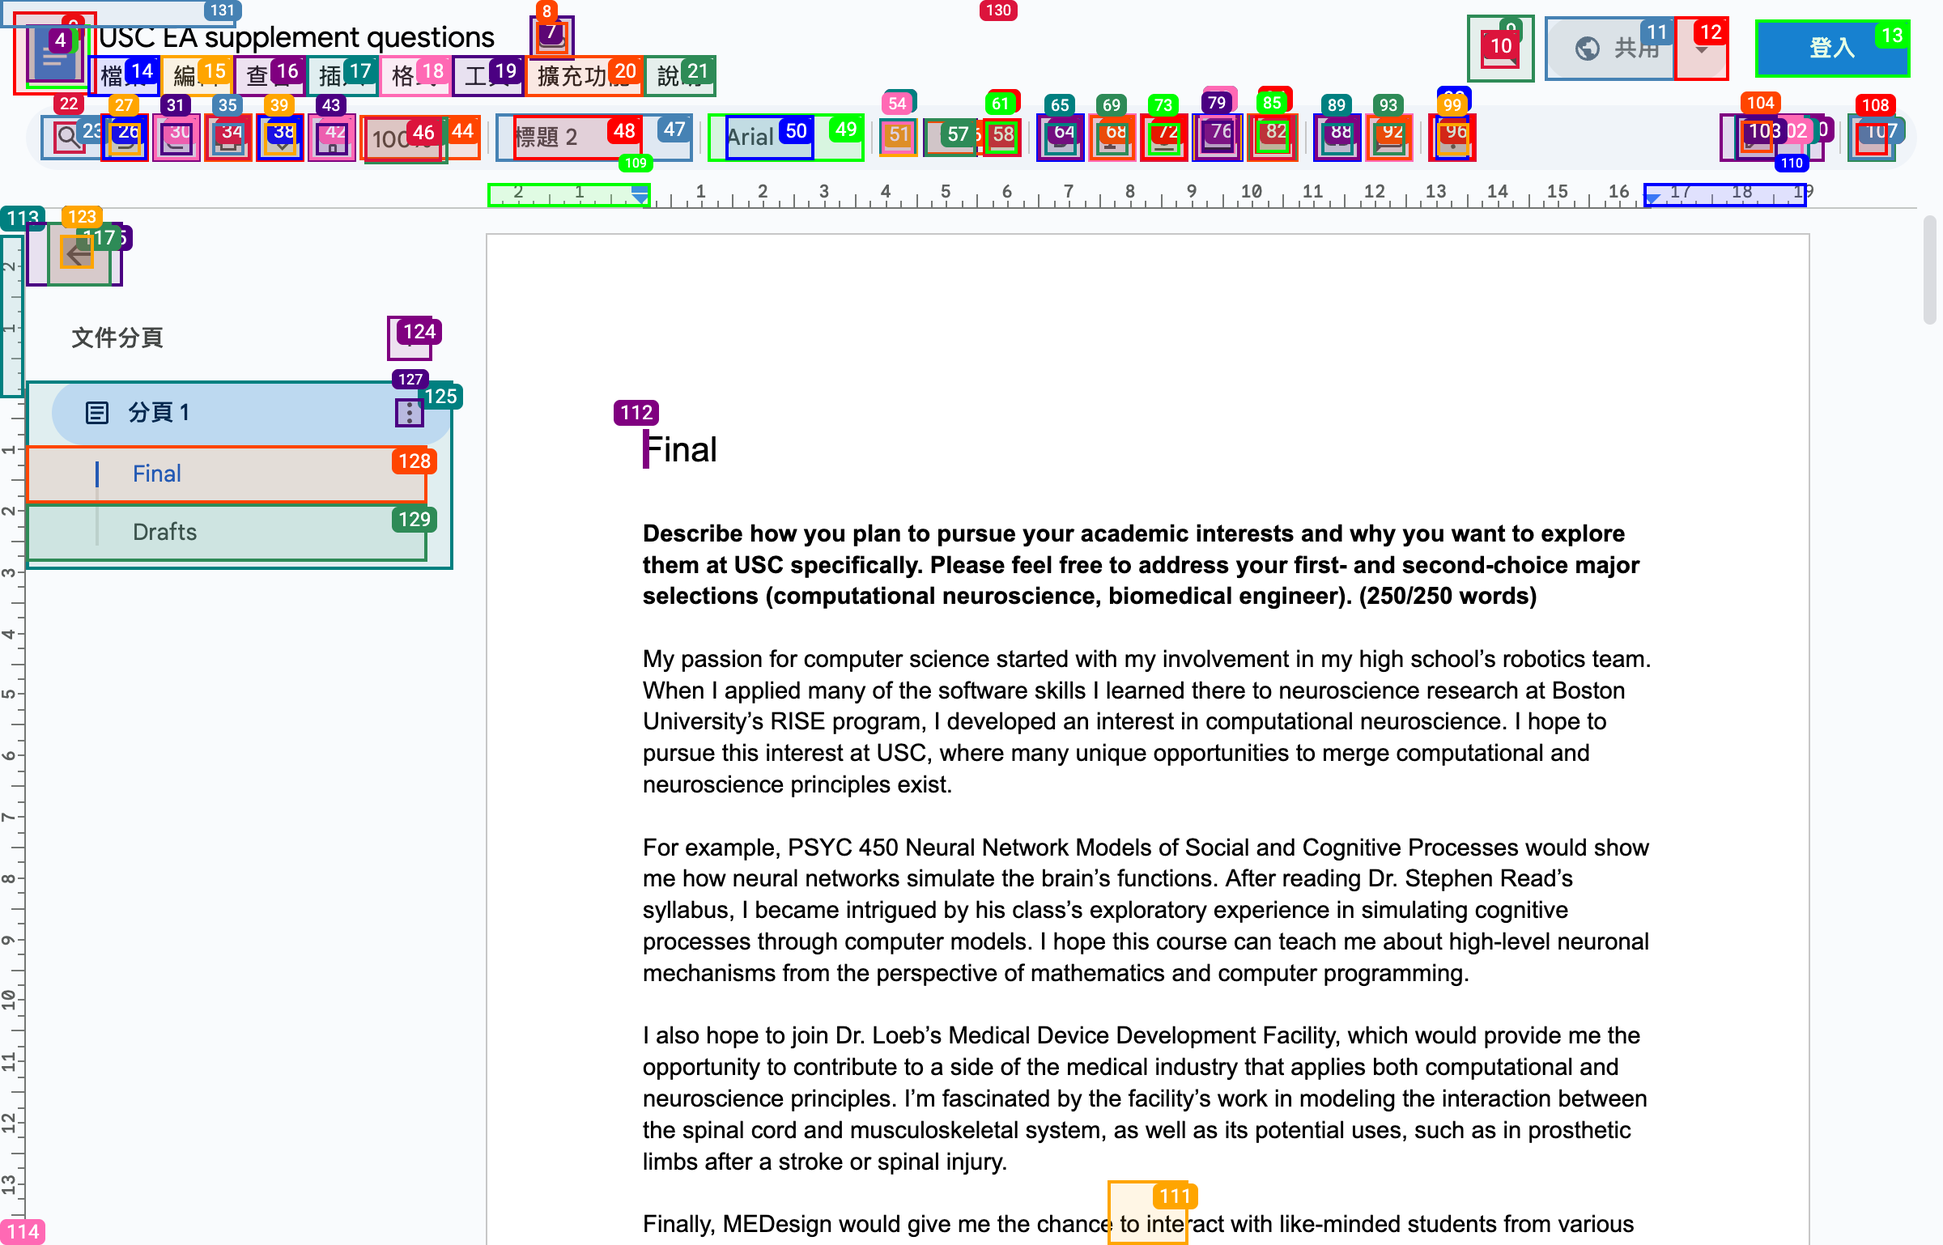
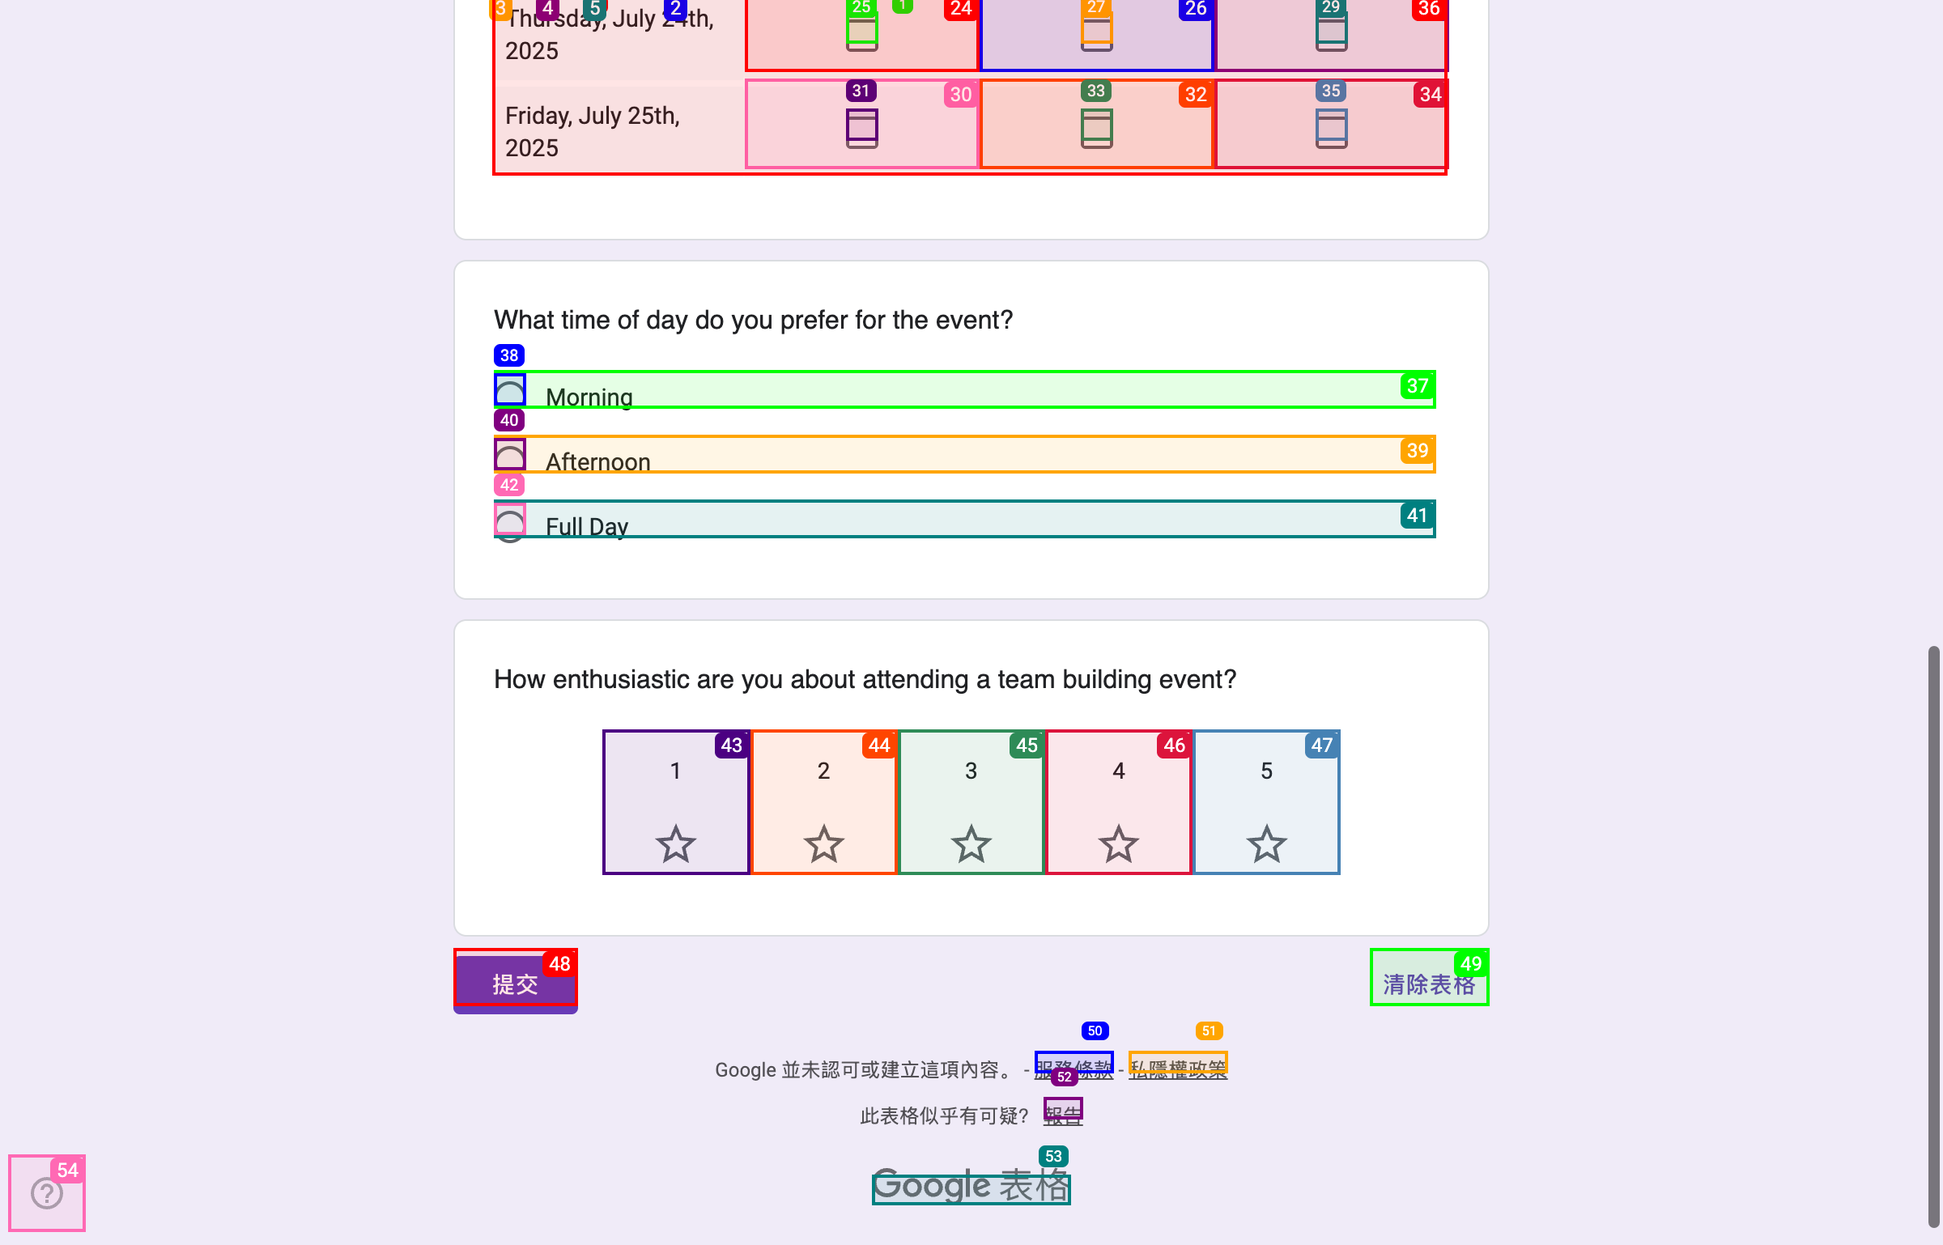
work on fixing bounding box overlapping in google doc

diff --git a/actions/new/dom/buildDomTree.js b/actions/new/dom/buildDomTree.js
@@ -25,8 +25,8 @@ import { createHighlightUtils } from './highlight.js';
  *
  * @param {Object} args - Configuration options for the DOM tree builder.
  * @param {boolean} args.doHighlightElements - Whether to visually highlight interactive elements.
- * @param {number} args.viewportExpansion - Pixels to expand the viewport bounds for visibility checks. -1 to expand to full page.
  * @param {boolean} args.debugMode - Enables detailed performance metrics and logging.
+ * @param {number} args.overlapThreshold - Threshold for area overlap detection (0.7 = 70%)
  *
  * @returns {Object} An object containing the root node ID, a map of all node data, and (if debugMode) performance metrics.
  *
@@ -36,10 +36,10 @@ import { createHighlightUtils } from './highlight.js';
  */
 export default function buildDomTree(args = {
     doHighlightElements: true,
-    viewportExpansion: -1,
     debugMode: true,
+    overlapThreshold: 0.7, // Threshold for area overlap detection (0.7 = 70%)
 }) {
-    const { doHighlightElements, viewportExpansion, debugMode } = args;
+    const { doHighlightElements, debugMode, overlapThreshold } = args;
 
     // --- Instantiate helpers with shared state ---
     const { PERF_METRICS, measureDomOperation, postProcessMetrics, pushTiming, popTiming } = createMetrics(debugMode);
@@ -53,21 +53,57 @@ export default function buildDomTree(args = {
     const ID = { current: 0 };
 
     // --- Core Logic ---
-    function handleHighlighting(nodeData, node, parentIframe, isParentHighlighted) {
-        if (!nodeData.isInteractive) return false;
-        // only highlight if parent not highlighted (prevent overlaps) or if its distinct
-        if (!isParentHighlighted || domUtils.isElementDistinctInteraction(node)) {
-            // only highlight if in viewport (or if its set to -1)
+    /**
+     * Handles the highlighting logic for interactive elements, including area overlap detection.
+     * 
+     * @param {Object} nodeData - The data object for the current node.
+     * @param {Element} node - The DOM element to potentially highlight.
+     * @param {Element|null} parentIframe - The parent iframe element if inside an iframe.
+     * @param {boolean} highlightedAncestor - If the element has a highlighted ancestor, null if no ancestor.
+     * @returns {Element|null} The element if it was highlighted, null otherwise.
+     */
+    function handleHighlighting(nodeData, node, parentIframe, highlightedAncestor = null) {
+        if (!nodeData.isInteractive) return highlightedAncestor;
+
+        // only highlight if no highlighted ancestor or if its distinct
+        if (!highlightedAncestor || domUtils.isElementDistinctInteraction(node)) {
+            // Additional safeguard: if parent is highlighted, require stronger evidence of distinctness
+            if (highlightedAncestor) {
+                const tagName = node.tagName.toLowerCase();
+                const isWrapperTag = ['div', 'span', 'section', 'article'].includes(tagName);
+
+                // For wrapper tags, require explicit interactive properties
+                if (isWrapperTag) {
+                    const hasExplicitInteractivity = node.hasAttribute('onclick') || node.hasAttribute('role') ||
+                        node.hasAttribute('tabindex') || /\b(btn|clickable)\b/i.test(node.className || '');
+                    if (!hasExplicitInteractivity) return highlightedAncestor;
+                }
+
+                // Area overlap check: prevent highlighting if element overlaps significantly with highlighted ancestor
+                const nodeRect = domUtils.getCachedBoundingRect(node);
+                if (nodeRect) {
+                    const parentRect = domUtils.getCachedBoundingRect(highlightedAncestor);
+                    if (parentRect) {
+                        const xOverlap = Math.max(0, Math.min(nodeRect.right, parentRect.right) - Math.max(nodeRect.left, parentRect.left));
+                        const yOverlap = Math.max(0, Math.min(nodeRect.bottom, parentRect.bottom) - Math.max(nodeRect.top, parentRect.top));
+                        const overlapArea = xOverlap * yOverlap;
+                        const overlapRatio = overlapArea / Math.max(nodeRect.width * nodeRect.height, parentRect.width * parentRect.height);
+                        if (overlapRatio > overlapThreshold) {
+                            return highlightedAncestor;
+                        }
+                    }
+                }
+            }
+
             nodeData.highlightIndex = highlightIndex++;
             if (doHighlightElements) {
-                // highlight given node if we aren't focusing on one only
                 const time = highlightElement(node, nodeData.highlightIndex, parentIframe) || 0;
                 if (debugMode) PERF_METRICS.timings.highlightElement += time;
-                // return true if successful highlight -- this is to signal that children should not be highlighted.
-                return true;
+                // return element if successful highlight -- this is to signal that children should not be highlighted.
+                return node;
             }
         }
-        return false;
+        return highlightedAncestor;
     }
 
     /**
@@ -76,7 +112,7 @@ export default function buildDomTree(args = {
      *
      * @param {Node} node - The current DOM node to process.
      * @param {Element|null} [parentIframe=null] - The parent iframe element if inside an iframe, otherwise null.
-     * @param {boolean} [isParentHighlighted=false] - Whether the parent node was highlighted, to avoid redundant highlights.
+     * @param {Element|null} [highlightedAncestor=null] - The parent node that was highlighted, to avoid redundant highlights.
      * @returns {string|null} The unique ID of the processed node in the DOM_HASH_MAP, or null if the node is skipped.
      *
      * @remarks
@@ -84,7 +120,7 @@ export default function buildDomTree(args = {
      * - Handles text nodes, shadow DOM, and content-editable regions.
      * - Applies highlighting logic if enabled.
      */
-    function buildTreeRecursive(node, parentIframe = null, isParentHighlighted = false) {
+    function buildTreeRecursive(node, parentIframe = null, highlightedAncestor = null) {
         if (debugMode) {
             PERF_METRICS.nodeMetrics.totalNodes++;
             PERF_METRICS.calls.buildDomTree++;
@@ -97,7 +133,7 @@ export default function buildDomTree(args = {
         if (node === document.body) {
             const nodeData = { tagName: 'body', attributes: {}, xpath: '/body', children: [] };
             for (const child of node.childNodes) {
-                const domElement = buildTreeRecursive(child, parentIframe, false);
+                const domElement = buildTreeRecursive(child, parentIframe, highlightedAncestor);
                 if (domElement) nodeData.children.push(domElement);
             }
             const id = `${ID.current++}`;
@@ -115,7 +151,7 @@ export default function buildDomTree(args = {
             }
 
             const id = `${ID.current++}`;
-            DOM_HASH_MAP[id] = { type: "TEXT_NODE", text: textContent, isVisible: domUtils.isTextNodeVisible(node, viewportExpansion) };
+            DOM_HASH_MAP[id] = { type: "TEXT_NODE", text: textContent, isVisible: domUtils.isTextNodeVisible(node) };
             if (debugMode) PERF_METRICS.nodeMetrics.processedNodes++;
             return id;
         }
@@ -145,12 +181,12 @@ export default function buildDomTree(args = {
             }
         }
         // populate isVisible, isInteractive attributes of nodeData
-        let nodeWasHighlighted = false;
+        let newHighlightedAncestor = null;
         nodeData.isVisible = domUtils.isElementVisible(node); // this is the only visibility check
         if (nodeData.isVisible) {
             nodeData.isInteractive = domUtils.isInteractiveElement(node);
             // mark element to be highlighted (so that children are not highlighted)
-            nodeWasHighlighted = handleHighlighting(nodeData, node, parentIframe, isParentHighlighted);
+            newHighlightedAncestor = handleHighlighting(nodeData, node, parentIframe, highlightedAncestor);
         }
         // Check for special types of nodes with internal structures, recurse through those
         const tagName = nodeData.tagName;
@@ -160,7 +196,7 @@ export default function buildDomTree(args = {
                 const iframeDoc = node.contentDocument || node.contentWindow?.document;
                 if (iframeDoc) {
                     for (const child of iframeDoc.childNodes) {
-                        const domElement = buildTreeRecursive(child, node, false);
+                        const domElement = buildTreeRecursive(child, node, newHighlightedAncestor);
                         if (domElement) nodeData.children.push(domElement);
                     }
                 }
@@ -168,7 +204,7 @@ export default function buildDomTree(args = {
             // for content editable divs
         } else if (node.isContentEditable) {
             for (const child of node.childNodes) {
-                const domElement = buildTreeRecursive(child, parentIframe, nodeWasHighlighted);
+                const domElement = buildTreeRecursive(child, parentIframe, newHighlightedAncestor);
                 if (domElement) nodeData.children.push(domElement);
             }
 
@@ -176,14 +212,13 @@ export default function buildDomTree(args = {
             // for shadow DOM elements that have internal structure
             nodeData.shadowRoot = true;
             for (const child of node.shadowRoot.childNodes) {
-                const domElement = buildTreeRecursive(child, parentIframe, nodeWasHighlighted);
+                const domElement = buildTreeRecursive(child, parentIframe, newHighlightedAncestor);
                 if (domElement) nodeData.children.push(domElement);
             }
         } else {
             // for all other nodes, recurse through children
             for (const child of node.childNodes) {
-                const passHighlightStatusToChild = nodeWasHighlighted || isParentHighlighted;
-                const domElement = buildTreeRecursive(child, parentIframe, passHighlightStatusToChild);
+                const domElement = buildTreeRecursive(child, parentIframe, newHighlightedAncestor);
                 if (domElement) nodeData.children.push(domElement);
             }
         }
@@ -208,6 +243,7 @@ export default function buildDomTree(args = {
     // --- Execution ---
     domUtils.DOM_CACHE.clearCache();
     if (window._highlightCleanupFunctions) cleanupHighlights();
+
     const wrappedBuildTree = measureDomOperation(buildTreeRecursive, 'buildDomTree');
     PERF_METRICS.calls.buildDomTree--; // remove this extra call to measureDomOperation
     const rootId = wrappedBuildTree(document.body);

diff --git a/actions/new/dom/dom_utils.js b/actions/new/dom/dom_utils.js
@@ -130,28 +130,24 @@ export function createDomUtils(debugMode, PERF_METRICS, measureDomOperation) {
      */
     function isElementVisible(element) {
         const style = getCachedComputedStyle(element);
-        return element.offsetWidth > 0 && element.offsetHeight > 0 && style.visibility !== "hidden" && style.display !== "none";
+        return element.offsetWidth > 0 && element.offsetHeight > 0 &&
+            style.visibility !== "hidden"
+            && style.display !== "none"
+            && parseFloat(style.opacity) > 0
+            && element.getClientRects().length > 0
+
     }
 
     /**
      * Checks if a text node is visible in the viewport.
      */
-    function isTextNodeVisible(textNode, viewportExpansion) {
+    function isTextNodeVisible(textNode) {
         try {
-            if (viewportExpansion === -1) {
-                const parentElement = textNode.parentElement;
-                if (!parentElement) return false;
-                try {
-                    return parentElement.checkVisibility({ checkOpacity: true, checkVisibilityCSS: true });
-                } catch (e) {
-                    const style = window.getComputedStyle(parentElement);
-                    return style.display !== 'none' && style.visibility !== 'hidden' && style.opacity !== '0';
-                }
-            }
-            // access the client rects of the text node.
+            // get client rects if text wraps to multiple lines.
             const range = document.createRange();
             range.selectNodeContents(textNode);
             const rects = range.getClientRects();
+
             if (!rects || rects.length === 0) return false;
             for (const rect of rects) {
                 if (rect.width > 0 && rect.height > 0) {
@@ -161,9 +157,8 @@ export function createDomUtils(debugMode, PERF_METRICS, measureDomOperation) {
                         return parentElement.checkVisibility({ checkOpacity: true, checkVisibilityCSS: true });
                     } catch (e) {
                         const style = window.getComputedStyle(parentElement);
-                        return style.display !== 'none' && style.visibility !== 'hidden' && style.opacity !== '0';
+                        return style.display !== 'none' && style.visibility !== 'hidden' && parseFloat(style.opacity) !== 0;
                     }
-
                 }
             }
             return false;
@@ -205,6 +200,8 @@ export function createDomUtils(debugMode, PERF_METRICS, measureDomOperation) {
         if (interactiveCursors.has(style.cursor)) return true;
         const nonInteractiveCursors = new Set(['not-allowed', 'no-drop', 'wait', 'progress',
             'initial', 'inherit']);
+        // check pointer-events - if it's set to 'none', the element can't receive pointer events
+        if (style.pointerEvents === 'none') return false;
         // check typical tags
         const interactiveTags = new Set(["a", "button", "input", "select", "textarea", "details",
             "summary", "label", "option", "optgroup", "fieldset", "legend"]);
@@ -225,7 +222,8 @@ export function createDomUtils(debugMode, PERF_METRICS, measureDomOperation) {
         // check roles
         const role = element.getAttribute("role");
         const ariaRole = element.getAttribute("aria-role");
-        const interactiveRoles = new Set(['button', 'menuitemradio', 'menuitemcheckbox', 'radio', 'checkbox', 'tab', 'switch', 'slider', 'spinbutton', 'combobox', 'searchbox', 'textbox', 'option', 'scrollbar']);
+        const interactiveRoles = new Set(['button', 'menuitemradio', 'menuitemcheckbox', 'radio', 'checkbox', 'tab', 
+            'switch', 'slider', 'spinbutton', 'combobox', 'searchbox', 'textbox', 'option', 'scrollbar']);
         if (interactiveRoles.has(role) || interactiveRoles.has(ariaRole)) return true;
         // check for event listeners (currently nonfunctional)
         try {
@@ -252,16 +250,19 @@ export function createDomUtils(debugMode, PERF_METRICS, measureDomOperation) {
      * uses @isInteractiveElement 
      */
     function isHeuristicallyInteractive(element) {
-        if (!element || element.nodeType !== Node.ELEMENT_NODE) return false;
         if (!isElementVisible(element)) return false;
+
+        // Only consider elements that have explicit interactive properties
         const hasInteractiveAttributes = element.hasAttribute('role') || element.hasAttribute('tabindex')
             || element.hasAttribute('onclick') || typeof element.onclick === 'function';
         const hasInteractiveClass = /\b(btn|clickable|menu|item|entry|link)\b/i.test(element.className || '');
+
+        // Check if element is inside a known interactive container
         const isInKnownContainer = Boolean(element.closest('button,a,[role="button"],.menu,.dropdown,.list,.toolbar'));
-        const hasVisibleChildren = [...element.children].some(isElementVisible);
-        const isParentBody = element.parentElement && element.parentElement.isSameNode(document.body);
-        return (isInteractiveElement(element) || hasInteractiveAttributes || hasInteractiveClass)
-            && hasVisibleChildren && isInKnownContainer && !isParentBody;
+
+        // Only consider it distinct if it has explicit interactive properties
+        // AND is not just a container div with children
+        return hasInteractiveAttributes && hasInteractiveClass && isInKnownContainer;
     }
 
     const DISTINCT_INTERACTIVE_TAGS = new Set(['a', 'button', 'input', 'select', 'textarea', 'summary',
@@ -275,9 +276,11 @@ export function createDomUtils(debugMode, PERF_METRICS, measureDomOperation) {
      * which is crucial for handling nested interactive elements. 
      * Should only be called for elements with children.
      * -- this function might be the problem that is causing overlapping highlights...
+     * -- i need to check if the parent element is highlighted. 
      */
     function isElementDistinctInteraction(element) {
         if (!element || element.nodeType !== Node.ELEMENT_NODE) return false;
+
         const tagName = element.tagName.toLowerCase();
         const role = element.getAttribute('role');
         if (tagName === 'iframe') return true;

diff --git a/actions/new/testing.py b/actions/new/testing.py
@@ -53,9 +53,9 @@ async def main() -> None:
 		try:
 			await page.goto(
 				# google form test
-				# "https://docs.google.com/forms/d/e/1FAIpQLScNUBVunFJk9x-ScKqcg9Vh_36LGzHP2xImQxpA9f0Mcklzwg/viewform"
+				"https://docs.google.com/forms/d/e/1FAIpQLScNUBVunFJk9x-ScKqcg9Vh_36LGzHP2xImQxpA9f0Mcklzwg/viewform"
 				# google doc test
-				"https://docs.google.com/document/d/1DBPuFb-byQ9rZcxZo2ky0y5Sn1TjeF-2q6rfwOhI1sg/edit?usp=sharing"
+				# "https://docs.google.com/document/d/1DBPuFb-byQ9rZcxZo2ky0y5Sn1TjeF-2q6rfwOhI1sg/edit?usp=sharing"
 				# google sheets test
 				# "https://docs.google.com/spreadsheets/d/1seBguBzuDMYo6-7vZCOlb-Y6zFKTKKUYqJu81qxev6Q/edit?usp=sharing"
 			)
@@ -73,14 +73,15 @@ async def main() -> None:
 			"(args) => window.buildDomTree(args)",
 			{
 				"doHighlightElements": True,
-				"viewportExpansion": -1,
 				"debugMode": True,
+				"overlapThreshold": 0.4,
 			},
 		)
 
 		await page.wait_for_timeout(10000)
-		# save this result to file
 		await page.screenshot(path="actions/new/screenshot.png")
+		# input_elements = [el for el in result['highlightedElements'] if el.get('index') == 135]
+		#print(input_elements)
 		print(result['highlightedElements'])
 		await browser.close()
 

diff --git a/PLAN.md b/PLAN.md
@@ -1,10 +1,17 @@
 1) Figure out why boxes are overlapping and why some numbers are appearing directly on top (blocking) the element
-
+- turns out the reason is that there are some generations of no-highlight elements in between two generations of highlighted elements
+- unfortunately, we have to choose between allowing elements that are overlapping over independent elements. 
+- but is there any way to have both??
+- current functionality does not take that into account
 1.25) Figure out why text inputs are not tracked but all buttons seem to be tracked
+- so it turns out that some text inputs are intentionally marked invisible.
+- we might have to resort to NOT highlighting them on the screen, but still keeping track of them separately
+- we will need to create a "possibly hidden interactive elements" -> and provide that to the LLM as well. 
 
 1.5) Figure out how to make the buildDOMTree more efficient. 
 
-4) Figure out how to extract interactive elements which are highlighted into an LLM-comprehensible format
+4) Figure out how to extract interactive elements which are highlighted into an LLM-comprehensible format 
+- did this, although im not sure how comprehensible this is for the LLM.
 
 5) Figure out how to wrap that, the screenshot, instructions, and history together to feed to the LLM
 
